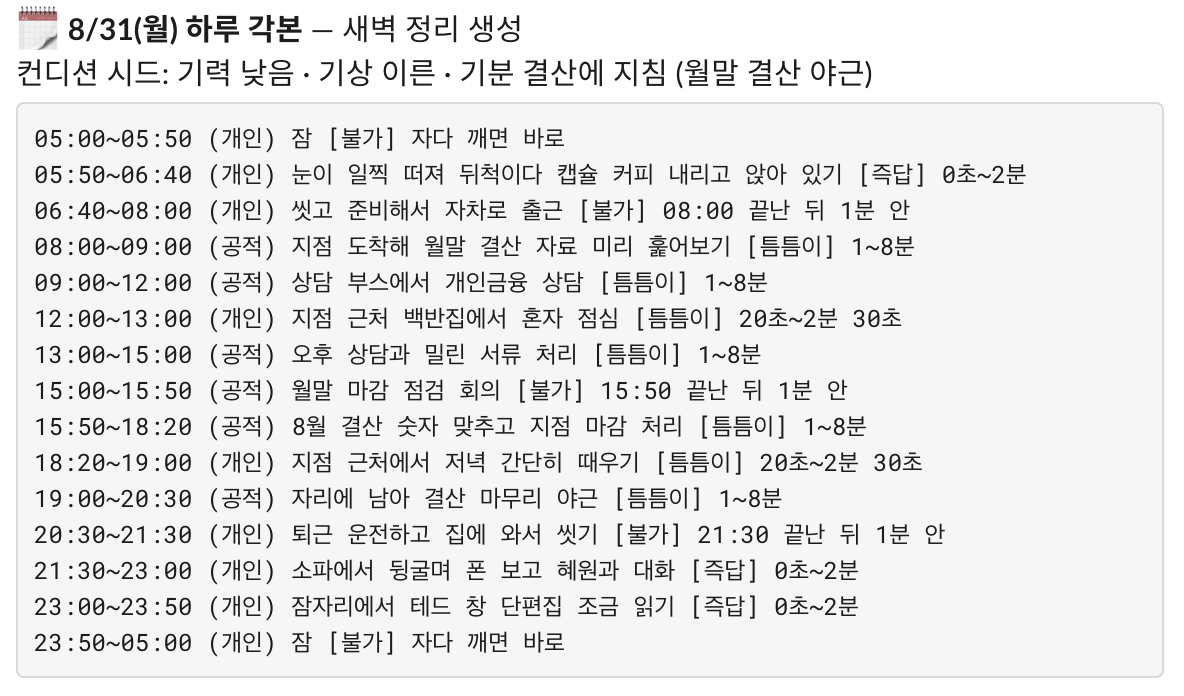
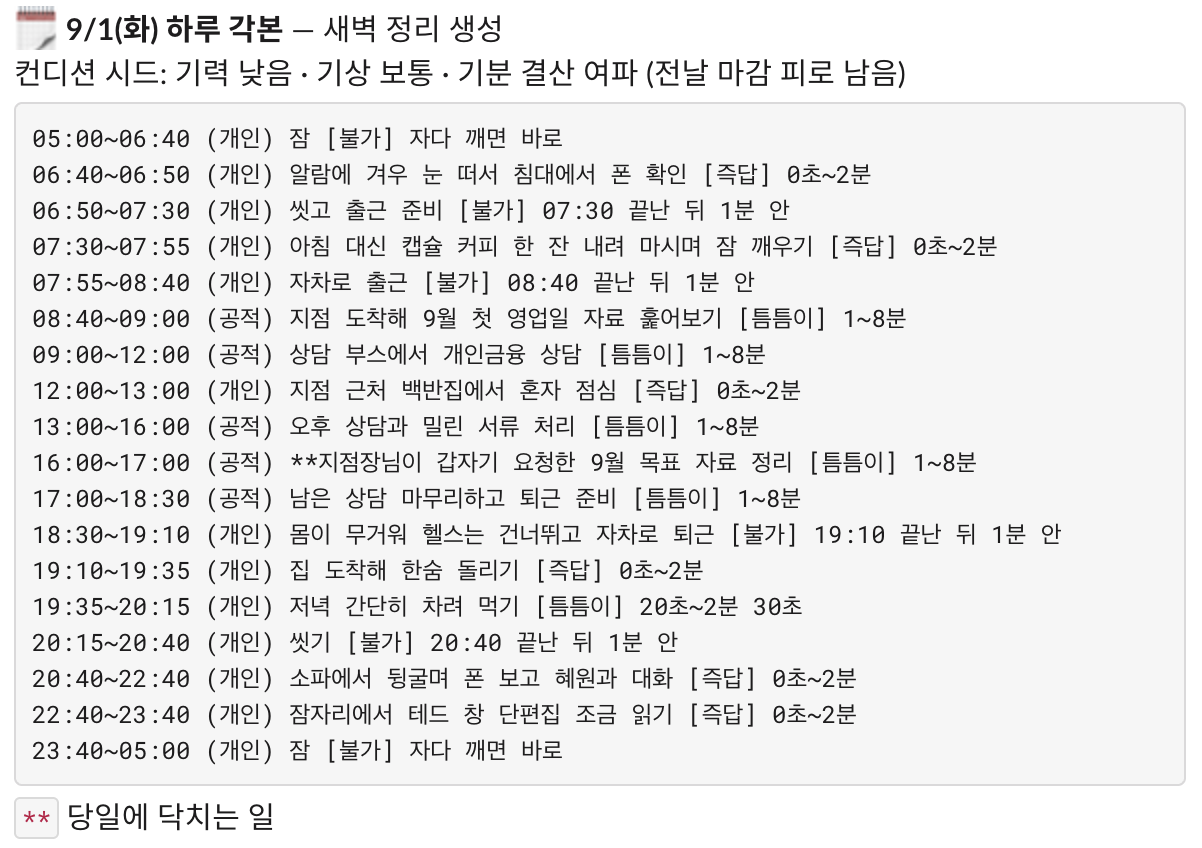
docs: 리드미 문장을 다듬고 달래기 선톡·자리 비움 기준 반영 (#224)
목표 문장에 주어를 넣고, 캐릭터가 사는 시간과 애착을 쌓는 상대를 문장 안에 밝혔다.
프롬프트에 지나간 시간과 남은 시간을 나눠 넣는 설명을 풀어 썼다.
달래기 선톡을 선톡 표에 추가하고, 자리 비움 예고의 최소 길이를 코드 값인 30분으로 맞췄다.
하루 각본 그림을 새 캡처로 교체했다.

Closes #221

Changed region(s): [[0.0, 0.0, 1.0, 0.9957], [0.7812, 0.5129, 0.8125, 0.5733]]

diff --git a/CLAUDE.md b/CLAUDE.md
@@ -125,7 +125,7 @@ yarn dev        # 로컬 기동 (long polling)
                 ├─ src/proactive-policy.ts — 선제 발화 관제탑: silenceState(무응답 논리일 수→normal/quiet/checkin/dormant)·proactiveAllowed·**dailySendPlan(그날 무엇을 보낼지 단일 판단: morning|lunch|checkin|none — 새벽 정리 문안 준비·반영 게이트·발송 직전 재확인이 같은 함수를 부른다)**. 유저 메시지가 오면 즉시 평상 복귀
                 ├─ src/dispatch.ts — 아침·점심·안부 디스패처(3분 틱, LLM 0): 밤에 준비된 문안을 창 안 발송, 유저가 최근 4시간 안에 먼저 연락했으면 skip, dailySendPlan이 그날 보낼 종류로 지목하지 않으면 skip. 점심 선톡은 발송 창만 12:05~12:50인 morning 종류 행(스키마 불변, 트레이스는 purpose='lunch'). 창 놓치면 유예(창 종료 +90분, 시간대별 상한 11/14/22시) 내 발송, 넘기면 폐기 사유+시도 횟수(attempts/last_error) 기록
                 ├─ src/followup.ts — 침묵 팔로업(15분 틱, 크론 0-4,8-23시): 관제탑 통과 시에만. 낮=유저 발화 기준 4h 무응답이면 근황 하루 1통(보낸 뒤에도 답이 없으면 그날은 물러남), 밤(자정~새벽 5시)=유저가 잔다 말 없이 1h+ 잠수하면 밤 인사 1회. 답장이 유저의 서운함을 표시했는데(reply-signal의 userUpset) 그 뒤로 답이 끊기면 30분 뒤 달래기 1통 — 한 발현에 한 통이고 잠 블록에도 나간다. 문안은 대화와 같은 3층(buildSystemBlocks)+상황 문단 — 앞 두 층 캐시 공유. 경과시간은 Date.now 기준(getKstNow().getTime()은 +9h라 오산)
-                ├─ src/presence.ts — 자리 비움 예고(10분 틱, 크론 7-23시, 유저 발화 ≤4h일 때만 — 자기 발화로 창이 열리던 체인 차단): 긴 불가(운동·샤워·외출, ≥20분)를 PlanBlock.advance_known으로 갈라 미리 아는 일정은 시작 10분 전~3분 후에 예고, 닥친 일은 시작 시점~12분 후에 알리고 바로 조용, 연속 불가 사이 경계는 2분 전~12분 후(블록당 1회, 하루 3회 상한=예고만 계산·복귀 인사 제외, 하루 각본 생성 프롬프트도 같은 상한으로 불가 구간 수를 제한). 선톡 하루 총량 캡에서는 제외. 공적 불가(회의·시험)는 "끝나고 연락" 톤. 다녀온 뒤는 이 파일 몫이 아니다 — 구간 끝의 wake 핸들러(bot.ts)가 몰아 답장과 복귀 인사를 한 자리에서 처리한다. **개인·사회 불가는 유저가 붙잡으면 reply-timing이 판정 한 콜로 가려 개인=취소·사회=미룸을 day_actuals에 기록→그 블록 즉답, 공적은 못 접음.** 접은 블록에는 예고 스킵(isHeldNow). 캐릭터가 방금 말했으면 예고를 접는다 — 기준은 최소 AWAY_QUIET_MIN분이되 알릴 일정이 이미 시작했으면 그 시작 시각까지 넓힌다(구간 끝 몰아 답장이 이미 같은 전환을 알린 뒤라, 그 답장 자리에서 다음 일정까지 함께 알리고 예고는 나가지 않는다). 문안은 대화와 같은 3층(buildSystemBlocks)+상황 문단 — 앞 두 층 캐시 공유. 막연한 침묵→'알고 하는 기다림'
+                ├─ src/presence.ts — 자리 비움 예고(10분 틱, 크론 7-23시, 유저 발화 ≤4h일 때만 — 자기 발화로 창이 열리던 체인 차단): 긴 불가(운동·샤워·외출, ≥30분)를 PlanBlock.advance_known으로 갈라 미리 아는 일정은 시작 10분 전~3분 후에 예고, 닥친 일은 시작 시점~12분 후에 알리고 바로 조용, 연속 불가 사이 경계는 2분 전~12분 후(블록당 1회, 하루 3회 상한=예고만 계산·복귀 인사 제외, 하루 각본 생성 프롬프트도 같은 상한으로 불가 구간 수를 제한). 선톡 하루 총량 캡에서는 제외. 공적 불가(회의·시험)는 "끝나고 연락" 톤. 다녀온 뒤는 이 파일 몫이 아니다 — 구간 끝의 wake 핸들러(bot.ts)가 몰아 답장과 복귀 인사를 한 자리에서 처리한다. **개인·사회 불가는 유저가 붙잡으면 reply-timing이 판정 한 콜로 가려 개인=취소·사회=미룸을 day_actuals에 기록→그 블록 즉답, 공적은 못 접음.** 접은 블록에는 예고 스킵(isHeldNow). 캐릭터가 방금 말했으면 예고를 접는다 — 기준은 최소 AWAY_QUIET_MIN분이되 알릴 일정이 이미 시작했으면 그 시작 시각까지 넓힌다(구간 끝 몰아 답장이 이미 같은 전환을 알린 뒤라, 그 답장 자리에서 다음 일정까지 함께 알리고 예고는 나가지 않는다). 문안은 대화와 같은 3층(buildSystemBlocks)+상황 문단 — 앞 두 층 캐시 공유. 막연한 침묵→'알고 하는 기다림'
                 ├─ src/reply-trace.ts — 답장 트레이스(1분 틱, LLM 0): llm_calls·prompt_blobs를 읽어 게시함에 쌓는다. 본문=대상 발화·텀 경로·검색 태그와 기억·모델이 쓴 답, 스레드=실시간 꼬리 전문(발송·폐기 결과는 pending.ts가 traceReplyOutcome로 같은 스레드에 붙인다). 하루 고정 두 덩이는 그날 첫 호출에서 한 번만, 하루 중에 바뀌면 바뀐 대목 이름(changedSections)과 바뀐 줄(lineDiff)만. 판단 근거를 5분 기다리고 3시간 지난 호출은 표시만(게시 안 함), 새벽 정리 쪽 purpose는 구간 3 몫이라 건너뛴다. 오늘 몫을 지워 다시 보내는 도구는 src/tools/retrace.ts
                 ├─ src/nightly-trace.ts — 새벽 정리 트레이스(LLM 0): applyNightlyOutput 래퍼가 반영 전에 손댈 키의 지금 값을, 반영 뒤에 결과를 읽어 게시함에 쌓는다(트랜잭션 바깥이라 게시 실패가 반영을 되돌리지 않는다). 본문=오늘 메모·각본과 달라진 하루·관계 갱신·새 일정, 스레드=기억 신규와 덮어쓰기(이전→새 값·태그 차이)·일기 전문과 그날 일기 태그(없으면 '없음')·내일 선톡 문안과 발송 창·그 밤의 모델 호출 원문(2시간 안, 올린 뒤 traced 표시). 침묵 단계로 일부만 만든 날은 건너뛴 것을 한 줄, skip으로 끝난 날은 미게시
                 ├─ src/feedback.ts — 슬랙 채널에 남긴 표시 수집(10분 틱, LLM 0): conversations.history로 최근 3일 글의 리액션을, reply_count가 있는 글은 conversations.replies로 스레드 답글을 읽어 call_feedback에 쌓는다. 리액션 4종이 분류(❌ 사실 오류·💬 말투·⏰ 타이밍·👍 좋음, toFeedbackKind), 스레드 답글이 이유. 표시가 달린 글의 slack_ts로 trace_events를 찾아 dedupe_key `call:<id>`(스레드 자식은 `call:<id>:<꼬리>`)에서 호출 번호를 꺼내 함께 적고, 호출과 이어지지 않는 게시에 달린 표시는 번호 없이 둔다. 리액션을 뗀 것은 지우지 않고 removed_at 표시(다시 붙이면 되살림), 같은 표시는 dedupe_key UNIQUE로 한 번만. 답장 파이프라인에 갈고리를 걸지 않고 게시 기록을 읽어 따로 돈다 — 수집한 표시는 프롬프트에도 기억에도 들어가지 않는다(ADR 0009). SLACK_BOT_TOKEN·SLACK_TRACE_CHANNEL 없으면 전체 no-op

diff --git a/README.md b/README.md
@@ -7,13 +7,13 @@
 
 유저가 원하는 캐릭터를 직접 만들어 대화한다. 소개팅에서 만난 사이, 오래된 친구나 연인처럼 어떤 관계로 시작할지부터 성격과 분위기, 나이와 성별까지 유저가 자유롭게 정할 수 있다. 만들어진 캐릭터는 유저가 정한 대로 자기 직업과 사는 곳, 하루 일과를 갖고 현실 세계에서 자기 일상을 살기 시작한다.
 
-기존 AI 캐릭터 채팅은 가상의 세계관 안에서 진행되지만, 여기서는 유저가 살고 있는 현실이 그대로 배경이 된다. 가상과 현실이 맞닿는 자리에 캐릭터를 두어, 실제로 세상 어딘가에 살고 있을 것 같다고 느끼게 하는 것이 목표다.
+기존 AI 캐릭터 채팅은 가상의 세계관 안에서 진행되지만, 여기서는 유저가 살고 있는 현실이 그대로 배경이 된다. 가상과 현실이 맞닿는 자리에 캐릭터를 두어, 유저가 실제로 세상 어딘가에 이 캐릭터가 살고 있을 것 같다고 느끼게 하는 것이 목표다.
 
-캐릭터는 유저와 같은 시간을 살면서 실제 사람처럼 자기 하루를 보낸다. 회의나 운동처럼 핸드폰을 볼 수 없는 시간에는 답이 느리거나 아예 오지 않고 일정이 끝난 뒤에 밀린 답장을 읽고 답하며, 반대로 유저가 답이 없으면 먼저 연락해 요즘 어떻게 지내는지 묻기도 한다.
+캐릭터는 유저와 같은 현실 시간을 살면서 실제 사람처럼 자기 하루를 보낸다. 회의나 운동처럼 핸드폰을 볼 수 없는 시간에는 답이 느리거나 아예 오지 않고 일정이 끝난 뒤에 밀린 답장을 읽고 답하며, 반대로 유저가 답이 없으면 먼저 연락해 요즘 어떻게 지내는지 묻기도 한다.
 
-주고받은 일상 대화는 캐릭터가 계속 기억으로 쌓아 가기 때문에, 오래 이야기할수록 서로에 대해 아는 것이 늘고 대화도 풍부해진다.
+주고받은 일상 대화는 캐릭터가 계속 기억으로 쌓아 가며 오래 이야기할수록 서로에 대해 아는 것이 늘고 대화도 풍부해진다.
 
-서비스의 주요 타겟은 혼자 사는 2030 직장인으로, 일상에 지쳐 인간관계를 이어 갈 힘은 없지만 사람과의 소통은 여전히 그리워하는 사람들로 잡았다. 서비스를 이용하려고 시간을 따로 만들 필요 없이 일상 속에서 틈틈이 주고받는 방식이라, 유저의 삶에 자연스럽게 녹아들어 부담 없이 상호작용하며 애착을 쌓아 가게 된다.
+서비스의 주요 타겟은 혼자 사는 2030 직장인으로, 일상에 지쳐 인간관계를 이어 갈 힘은 없지만 사람과의 소통은 여전히 그리워하는 사람들로 잡았다. 서비스를 이용하려고 시간을 따로 만들 필요 없이 일상 속에서 틈틈이 주고받는 방식이라, 유저의 삶에 자연스럽게 녹아들어 부담 없이 상호작용하며 캐릭터와 애착을 쌓아 가게 된다.
 
 <details>
 <summary>유저층 규모</summary>
@@ -98,7 +98,7 @@
 
 답장이 불가한 일정에서는 캐릭터도 실제로 답하지 못하고, 그 일정이 끝난 뒤에 그동안 온 메시지를 한 번에 읽고 답한다. 다만 유저가 남아 있기를 원하면 회의나 시험 같은 공적인 일정이 아닌 한 그 일정을 미루거나 취소하고 남는 쪽을 고르도록 구현해뒀다.
 
-이렇게 미루거나 취소한 시간에 실제로 무엇을 했는지는 각본과 따로 적어 둔다. 프롬프트에는 지나간 시간을 이 실제 기록으로, 아직 오지 않은 시간을 각본으로 넣어서, 유저 때문에 달라진 하루를 이후 대화와 그날 일기에도 그대로 반영하도록 구성했다.
+이렇게 미루거나 취소한 시간에 실제로 무엇을 했는지는 각본과 따로 적어 둔다. 프롬프트에 전달하는 일정 중 이미 지나간 시간은 이 실제 기록으로, 앞으로 남은 시간은 각본으로 넣어서, 실제로 보낸 하루가 이후 대화와 새벽 정리에도 그대로 반영되도록 구성했다.
 
 <p align="center">
   <img src="assets/fig-chat-worklate.jpg" alt="퇴근했냐는 물음에 자리에 남아 승진 심사 서류를 쓰는 중이라고 답하는 대화" width="440">
@@ -107,13 +107,14 @@
 
 ### 선톡
 
-실제 사람처럼 상호작용하는 캐릭터가 되려면 유저가 연락할 때만 답하는 데서 그치지 않고 캐릭터가 먼저 연락하기도 해야 한다. 기계적으로 같은 시각에 말을 걸기보다 필요한 상황에 맞춰 먼저 말을 걸도록, 선톡을 아래 5가지로 나눠 구성해뒀다.
+실제 사람처럼 상호작용하는 캐릭터가 되려면 유저가 연락할 때만 답하지 않고 캐릭터가 먼저 연락하기도 해야 한다. 기계적으로 같은 시각에 말을 걸기보다 필요한 상황에 맞춰 먼저 말을 걸도록, 선톡을 아래 6가지로 나눠 구성해뒀다.
 
 | 종류 | 보내는 때 |
 |---|---|
 | 아침 안부 | 그날 각본의 기상·출근 시각에 맞춰 아침에 먼저 연락한다. 유저가 아침에 먼저 연락했으면 보내지 않는다 |
-| 자리 비움 예고·복귀 | 캐릭터가 20분 이상 자리를 비워야 하면 유저에게 미리 알린다. 일정이 시작하기 전과 끝난 뒤에 한 번씩 연락한다 |
+| 자리 비움 예고·복귀 | 캐릭터가 30분 이상 자리를 비워야 하면 유저에게 미리 알린다. 일정이 시작하기 전과 끝난 뒤에 한 번씩 연락한다 |
 | 대화가 끊겼을 때 다시 말 걸기 | 유저가 4시간 넘게 답이 없을 때, 캐릭터 쪽에서 자신의 근황을 전하거나 유저의 안부를 묻는다 |
+| 달래기 | 유저가 서운한 기색을 보이고 30분 넘게 답이 없을 때, 캐릭터가 한 번 다독이는 말을 건넨다 |
 | 밤 인사 | 자정을 넘겨 대화하다 유저가 잔다는 말 없이 1시간 조용하면 다정하게 인사를 남긴다 |
 | 오랜만의 안부 | 유저가 2주째 연락이 없을 때 저녁에 한 번, 가볍게 근황을 묻는다 |
 
